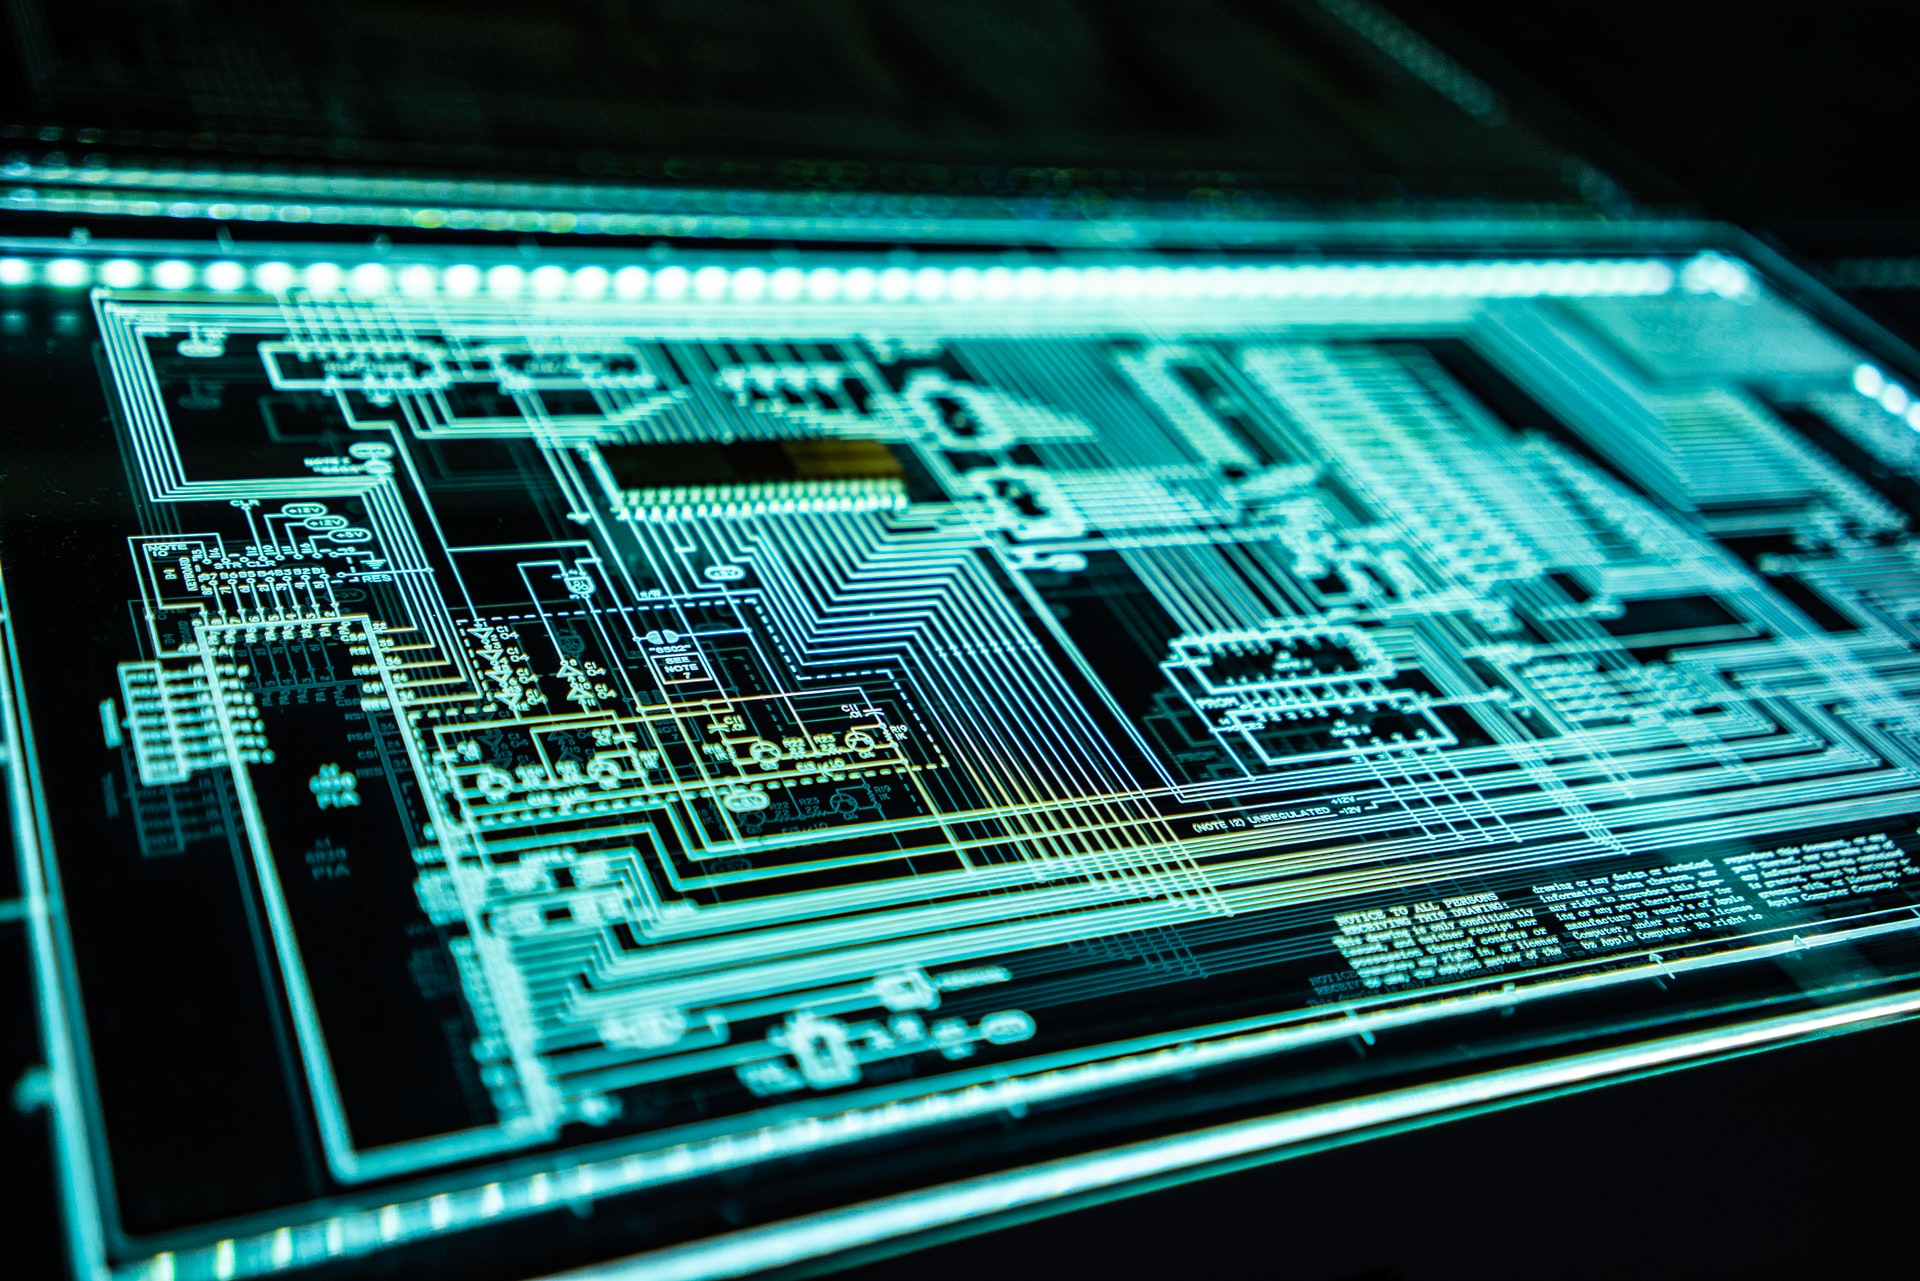
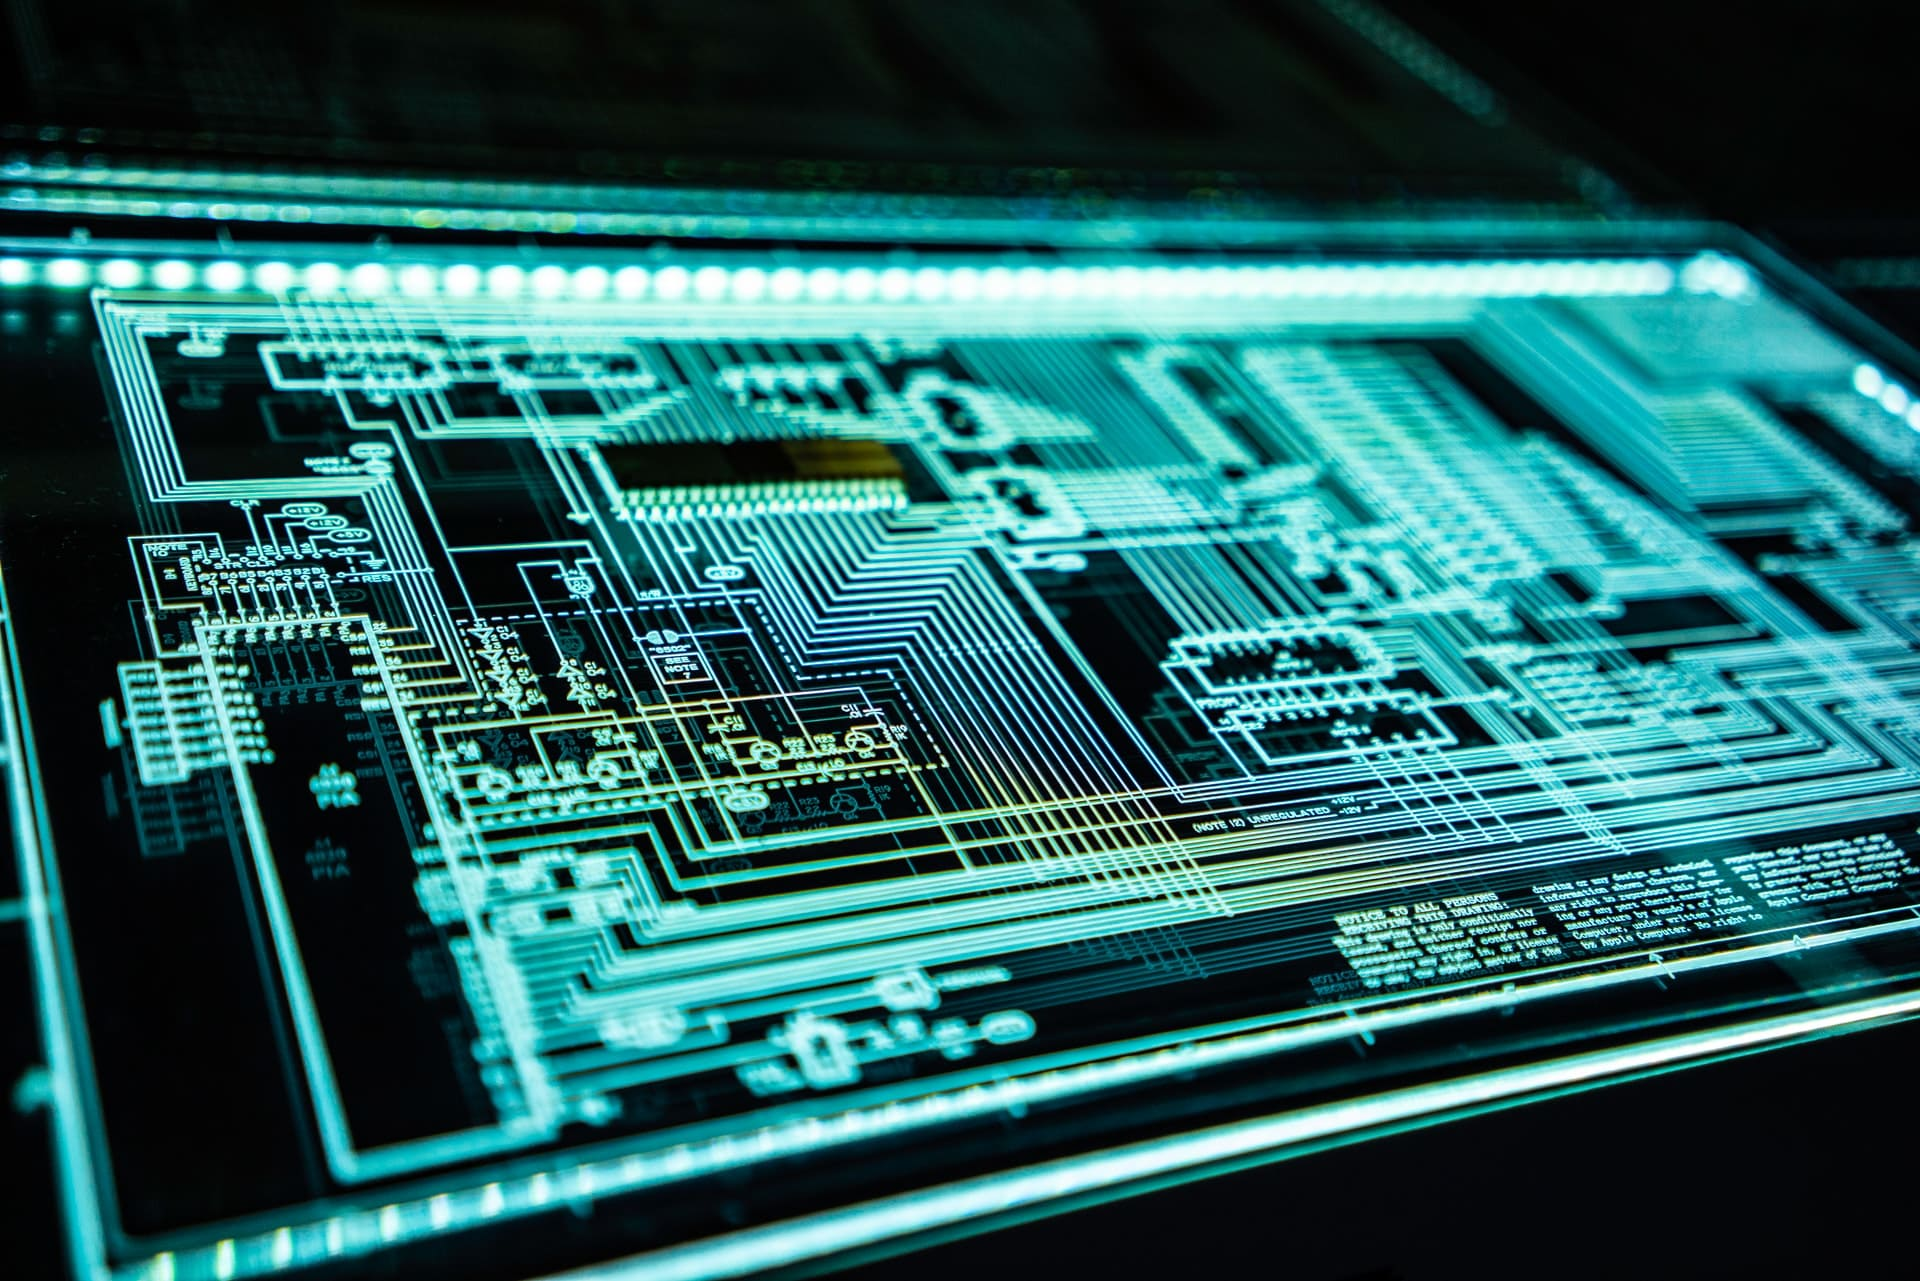
Development build with files Source - Stage is : under develop alpha build

diff --git a/src/components/home/PersonalIMG.jsx b/src/components/home/PersonalIMG.jsx
@@ -1,6 +1,6 @@
 import React from "react";
 import styles from "../../scss/pages/home/personalIMG/PersonalIMG.module.css";
-import personalIMGSrc from "../../assets/images/perosnal_img_1.png";
+import personalIMGSrc from "../../assets/images/perosnal_img_1.webp";
 
 const PersonalIMG = () => {
   return (
